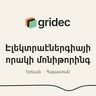
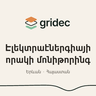
Логотип «open frame» владельца (gridec_open_frame_vector_pack.zip) вместо «solid v3» (2026-11-17, владелец: «поменяй логотип на сайте гридек на этот»)
SVG из пакета без правок: верх #E08A4B, средняя — контур (#17241F на светлом, #F6F1E9 на тёмном), низ #86C2A0; слово #17241F / #F6F1E9.
Рамка 492×143: шапка 35→36 px, подвал 41→42 px — ширина логотипа прежняя (~124 / ~145 px). Шапка телефона 375: зазор знак→меню 8.7 px, без горизонтальной прокрутки.
Заменены: brand/gridec-logo-light(-s).svg, -dark.svg, gridec-mark-light/dark.svg, почтовые PNG (из пакета); favicon.svg и фавиконки (icons_mark.py); og/logo-mark.png и og-карточки (make_cards.py).

Changed region(s): [[0.25, 0.1562, 0.75, 0.3125]]

diff --git a/powertech-v2-build/shell.html b/powertech-v2-build/shell.html
@@ -205,7 +205,7 @@ header a,header button,header nav,header .navr{pointer-events:auto;}
    плоскостями шире (3.4 вместо 1.5) и задняя плоскость на шаг темнее, иначе при
    32px зазоры пропадают и знак сливается в пятно. На тёмном — dark-версия.
    Сдвиг −7px: оптическое выравнивание по средней плоскости (задняя висит в поле). */
-.brand .wm{display:block;flex:0 0 auto;height:35px;width:auto;margin:0 0 0 -6px;}/* 2026-11-17 логотип «solid v3» владельца: рамка 684×192 без полей; 35 px = тот же размер рисунка, что был при 37 */   /* 32 → 37: владелец «на 15 %» (2026-09-13); сдвиг оптики −7 → −8 пропорционально */
+.brand .wm{display:block;flex:0 0 auto;height:36px;width:auto;margin:0 0 0 -6px;}/* 2026-11-17 логотип «open frame» владельца: рамка 492×143; 36 px = та же ширина логотипа (~124 px), что у «solid v3» при 35 */   /* 32 → 37: владелец «на 15 %» (2026-09-13); сдвиг оптики −7 → −8 пропорционально */
 .brand .lg-d{display:none;}
 header.on-dark .brand .lg-l{display:none;}
 header.on-dark .brand .lg-d{display:block;}
@@ -1595,7 +1595,7 @@ footer .fgrid{display:grid;grid-template-columns:minmax(220px,1fr) minmax(0,1.15
 /* Владелец (2026-09-14): знак и имя юрлица под ним спорили — два имени одного
    веса подряд. Имя юрлица ушло в строку реквизитов к номеру: знак называет
    компанию один раз, юрлицо читают вместе с номером. */
-footer .fbrand .flg{display:block;height:41px;width:auto;margin:0 0 22px -7px;}
+footer .fbrand .flg{display:block;height:42px;width:auto;margin:0 0 22px -7px;}
 /* Учётный номер компании. Он ярче описания над ним, потому что это
    проверяемый факт, а не подпись: по этому номеру компанию находят в
    государственном реестре — ради чего он в футере и стоит. Обозначение
@@ -2375,7 +2375,7 @@ html[data-nav="5"] #hdr .btn{white-space:nowrap;}
 <div id="wipe"><canvas aria-hidden="true"></canvas></div>
 <div class="rake" aria-hidden="true"></div>
 <header id="hdr" data-tone="paper"><div class="hin">
-  <a class="brand" href="%%BRAND_HREF%%" aria-label="Gridec"><img class="wm lg-l" src="./brand/gridec-logo-light-s.svg" alt="Gridec" width="684" height="192" decoding="async"><img class="wm lg-d" src="./brand/gridec-logo-dark.svg" alt="" width="684" height="192" decoding="async" aria-hidden="true"></a>
+  <a class="brand" href="%%BRAND_HREF%%" aria-label="Gridec"><img class="wm lg-l" src="./brand/gridec-logo-light-s.svg" alt="Gridec" width="492" height="143" decoding="async"><img class="wm lg-d" src="./brand/gridec-logo-dark.svg" alt="" width="492" height="143" decoding="async" aria-hidden="true"></a>
   <!-- %%HOME%% пуст на главной и равен её адресу на остальных страницах: оттуда
        ссылки на разделы ведут на главную, а не в пустоту (2026-11-11). -->
   <nav><a class="lk" href="%%HOME%%#applications">%%NAV_INDUSTRIES%%</a><a class="lk" href="%%HOME%%#services">%%NAV_SERVICES%%</a><a class="lk" href="%%HOME%%#company">%%NAV_COMPANY%%</a><a class="lk" href="%%PARTNERS_HREF%%"%%PARTNERS_CUR%%>%%NAV_PARTNERS%%</a></nav>
@@ -2578,7 +2578,7 @@ html[data-nav="5"] #hdr .btn{white-space:nowrap;}
 <footer>
   <div class="wrap fgrid">
     <div class="fbrand rv">
-      <img class="flg" src="./brand/gridec-logo-dark.svg" alt="Gridec" width="684" height="192" loading="lazy" decoding="async">
+      <img class="flg" src="./brand/gridec-logo-dark.svg" alt="Gridec" width="492" height="143" loading="lazy" decoding="async">
       <p>%%HERO_EYEBROW%%</p>
       <p class="freg">%%CO_LEGAL%%<span class="fsep">·</span>%%CO_TIN_LB%% <b>%%CO_TIN%%</b></p>
     </div>

diff --git a/site/hy/partners/index.html b/site/hy/partners/index.html
@@ -106,7 +106,7 @@ header a,header button,header nav,header .navr{pointer-events:auto;}
   width:100%;padding:0 clamp(14px,2.1vw,30px);}
 .brand{display:flex;align-items:center;gap:10px;
   --acc:var(--c-brand);flex:0 0 auto;transition:color .5s var(--e);}
-.brand .wm{display:block;flex:0 0 auto;height:35px;width:auto;margin:0 0 0 -6px;}   
+.brand .wm{display:block;flex:0 0 auto;height:36px;width:auto;margin:0 0 0 -6px;}   
 .brand .lg-d{display:none;}
 header.on-dark .brand .lg-l{display:none;}
 header.on-dark .brand .lg-d{display:block;}
@@ -823,7 +823,7 @@ footer,.footrev{--foot-h:530px;}
   box-shadow:inset 0 1px 0 var(--line-d);}
 footer .fgrid{display:grid;grid-template-columns:minmax(220px,1fr) minmax(0,1.15fr) minmax(0,.85fr);
   gap:clamp(28px,4vw,var(--s8));align-items:start;}
-footer .fbrand .flg{display:block;height:41px;width:auto;margin:0 0 22px -7px;}
+footer .fbrand .flg{display:block;height:42px;width:auto;margin:0 0 22px -7px;}
 footer .fbrand .freg{margin-top:14px;text-transform:none;letter-spacing:.04em;white-space:nowrap;
   max-width:none;color:var(--c-paper-a72);}
 footer .fbrand .freg .fsep{opacity:.5;margin:0 10px;}
@@ -1303,7 +1303,7 @@ html[data-nav="5"] #hdr .btn{white-space:nowrap;}
 <div id="wipe"><canvas aria-hidden="true"></canvas></div>
 <div class="rake" aria-hidden="true"></div>
 <header id="hdr" data-tone="paper"><div class="hin">
-  <a class="brand" href="/hy/" aria-label="Gridec"><img class="wm lg-l" src="/brand/gridec-logo-light-s.svg" alt="Gridec" width="684" height="192" decoding="async"><img class="wm lg-d" src="/brand/gridec-logo-dark.svg" alt="" width="684" height="192" decoding="async" aria-hidden="true"></a>
+  <a class="brand" href="/hy/" aria-label="Gridec"><img class="wm lg-l" src="/brand/gridec-logo-light-s.svg" alt="Gridec" width="492" height="143" decoding="async"><img class="wm lg-d" src="/brand/gridec-logo-dark.svg" alt="" width="492" height="143" decoding="async" aria-hidden="true"></a>
   
   <nav><a class="lk" href="/hy/#applications">Ոլորտներ</a><a class="lk" href="/hy/#services">Ծառայություններ</a><a class="lk" href="/hy/#company">Ընկերություն</a><a class="lk" href="/hy/partners/" aria-current="page">Գործընկերների համար</a></nav>
   <div class="navr">
@@ -1371,7 +1371,7 @@ html[data-nav="5"] #hdr .btn{white-space:nowrap;}
 <footer>
   <div class="wrap fgrid">
     <div class="fbrand rv">
-      <img class="flg" src="/brand/gridec-logo-dark.svg" alt="Gridec" width="684" height="192" loading="lazy" decoding="async">
+      <img class="flg" src="/brand/gridec-logo-dark.svg" alt="Gridec" width="492" height="143" loading="lazy" decoding="async">
       <p>Էլեկտրաէներգիայի որակի մոնիթորինգ</p>
       <p class="freg">Գրիդեկ ՍՊԸ<span class="fsep">·</span>ՀՎՀՀ <b>08331059</b></p>
     </div>

diff --git a/site/hy/index.html b/site/hy/index.html
@@ -106,7 +106,7 @@ header a,header button,header nav,header .navr{pointer-events:auto;}
   width:100%;padding:0 clamp(14px,2.1vw,30px);}
 .brand{display:flex;align-items:center;gap:10px;
   --acc:var(--c-brand);flex:0 0 auto;transition:color .5s var(--e);}
-.brand .wm{display:block;flex:0 0 auto;height:35px;width:auto;margin:0 0 0 -6px;}   
+.brand .wm{display:block;flex:0 0 auto;height:36px;width:auto;margin:0 0 0 -6px;}   
 .brand .lg-d{display:none;}
 header.on-dark .brand .lg-l{display:none;}
 header.on-dark .brand .lg-d{display:block;}
@@ -823,7 +823,7 @@ footer,.footrev{--foot-h:530px;}
   box-shadow:inset 0 1px 0 var(--line-d);}
 footer .fgrid{display:grid;grid-template-columns:minmax(220px,1fr) minmax(0,1.15fr) minmax(0,.85fr);
   gap:clamp(28px,4vw,var(--s8));align-items:start;}
-footer .fbrand .flg{display:block;height:41px;width:auto;margin:0 0 22px -7px;}
+footer .fbrand .flg{display:block;height:42px;width:auto;margin:0 0 22px -7px;}
 footer .fbrand .freg{margin-top:14px;text-transform:none;letter-spacing:.04em;white-space:nowrap;
   max-width:none;color:var(--c-paper-a72);}
 footer .fbrand .freg .fsep{opacity:.5;margin:0 10px;}
@@ -1303,7 +1303,7 @@ html[data-nav="5"] #hdr .btn{white-space:nowrap;}
 <div id="wipe"><canvas aria-hidden="true"></canvas></div>
 <div class="rake" aria-hidden="true"></div>
 <header id="hdr" data-tone="paper"><div class="hin">
-  <a class="brand" href="#top" aria-label="Gridec"><img class="wm lg-l" src="/brand/gridec-logo-light-s.svg" alt="Gridec" width="684" height="192" decoding="async"><img class="wm lg-d" src="/brand/gridec-logo-dark.svg" alt="" width="684" height="192" decoding="async" aria-hidden="true"></a>
+  <a class="brand" href="#top" aria-label="Gridec"><img class="wm lg-l" src="/brand/gridec-logo-light-s.svg" alt="Gridec" width="492" height="143" decoding="async"><img class="wm lg-d" src="/brand/gridec-logo-dark.svg" alt="" width="492" height="143" decoding="async" aria-hidden="true"></a>
   
   <nav><a class="lk" href="#applications">Ոլորտներ</a><a class="lk" href="#services">Ծառայություններ</a><a class="lk" href="#company">Ընկերություն</a><a class="lk" href="/hy/partners/">Գործընկերների համար</a></nav>
   <div class="navr">
@@ -1466,7 +1466,7 @@ html[data-nav="5"] #hdr .btn{white-space:nowrap;}
 <footer>
   <div class="wrap fgrid">
     <div class="fbrand rv">
-      <img class="flg" src="/brand/gridec-logo-dark.svg" alt="Gridec" width="684" height="192" loading="lazy" decoding="async">
+      <img class="flg" src="/brand/gridec-logo-dark.svg" alt="Gridec" width="492" height="143" loading="lazy" decoding="async">
       <p>Էլեկտրաէներգիայի որակի մոնիթորինգ</p>
       <p class="freg">Գրիդեկ ՍՊԸ<span class="fsep">·</span>ՀՎՀՀ <b>08331059</b></p>
     </div>

diff --git a/site/partners/index.html b/site/partners/index.html
@@ -102,7 +102,7 @@ header a,header button,header nav,header .navr{pointer-events:auto;}
   width:100%;padding:0 clamp(14px,2.1vw,30px);}
 .brand{display:flex;align-items:center;gap:10px;
   --acc:var(--c-brand);flex:0 0 auto;transition:color .5s var(--e);}
-.brand .wm{display:block;flex:0 0 auto;height:35px;width:auto;margin:0 0 0 -6px;}   
+.brand .wm{display:block;flex:0 0 auto;height:36px;width:auto;margin:0 0 0 -6px;}   
 .brand .lg-d{display:none;}
 header.on-dark .brand .lg-l{display:none;}
 header.on-dark .brand .lg-d{display:block;}
@@ -819,7 +819,7 @@ footer,.footrev{--foot-h:530px;}
   box-shadow:inset 0 1px 0 var(--line-d);}
 footer .fgrid{display:grid;grid-template-columns:minmax(220px,1fr) minmax(0,1.15fr) minmax(0,.85fr);
   gap:clamp(28px,4vw,var(--s8));align-items:start;}
-footer .fbrand .flg{display:block;height:41px;width:auto;margin:0 0 22px -7px;}
+footer .fbrand .flg{display:block;height:42px;width:auto;margin:0 0 22px -7px;}
 footer .fbrand .freg{margin-top:14px;text-transform:none;letter-spacing:.04em;white-space:nowrap;
   max-width:none;color:var(--c-paper-a72);}
 footer .fbrand .freg .fsep{opacity:.5;margin:0 10px;}
@@ -1303,7 +1303,7 @@ html[data-nav="5"] #hdr .btn{white-space:nowrap;}
 <div id="wipe"><canvas aria-hidden="true"></canvas></div>
 <div class="rake" aria-hidden="true"></div>
 <header id="hdr" data-tone="paper"><div class="hin">
-  <a class="brand" href="/" aria-label="Gridec"><img class="wm lg-l" src="/brand/gridec-logo-light-s.svg" alt="Gridec" width="684" height="192" decoding="async"><img class="wm lg-d" src="/brand/gridec-logo-dark.svg" alt="" width="684" height="192" decoding="async" aria-hidden="true"></a>
+  <a class="brand" href="/" aria-label="Gridec"><img class="wm lg-l" src="/brand/gridec-logo-light-s.svg" alt="Gridec" width="492" height="143" decoding="async"><img class="wm lg-d" src="/brand/gridec-logo-dark.svg" alt="" width="492" height="143" decoding="async" aria-hidden="true"></a>
   
   <nav><a class="lk" href="/#applications">Industries</a><a class="lk" href="/#services">Services</a><a class="lk" href="/#company">Company</a><a class="lk" href="/partners/" aria-current="page">For Partners</a></nav>
   <div class="navr">
@@ -1371,7 +1371,7 @@ html[data-nav="5"] #hdr .btn{white-space:nowrap;}
 <footer>
   <div class="wrap fgrid">
     <div class="fbrand rv">
-      <img class="flg" src="/brand/gridec-logo-dark.svg" alt="Gridec" width="684" height="192" loading="lazy" decoding="async">
+      <img class="flg" src="/brand/gridec-logo-dark.svg" alt="Gridec" width="492" height="143" loading="lazy" decoding="async">
       <p>POWER QUALITY MONITORING</p>
       <p class="freg">Gridec LLC<span class="fsep">·</span>TIN <b>08331059</b></p>
     </div>

diff --git a/site/index.html b/site/index.html
@@ -102,7 +102,7 @@ header a,header button,header nav,header .navr{pointer-events:auto;}
   width:100%;padding:0 clamp(14px,2.1vw,30px);}
 .brand{display:flex;align-items:center;gap:10px;
   --acc:var(--c-brand);flex:0 0 auto;transition:color .5s var(--e);}
-.brand .wm{display:block;flex:0 0 auto;height:35px;width:auto;margin:0 0 0 -6px;}   
+.brand .wm{display:block;flex:0 0 auto;height:36px;width:auto;margin:0 0 0 -6px;}   
 .brand .lg-d{display:none;}
 header.on-dark .brand .lg-l{display:none;}
 header.on-dark .brand .lg-d{display:block;}
@@ -819,7 +819,7 @@ footer,.footrev{--foot-h:530px;}
   box-shadow:inset 0 1px 0 var(--line-d);}
 footer .fgrid{display:grid;grid-template-columns:minmax(220px,1fr) minmax(0,1.15fr) minmax(0,.85fr);
   gap:clamp(28px,4vw,var(--s8));align-items:start;}
-footer .fbrand .flg{display:block;height:41px;width:auto;margin:0 0 22px -7px;}
+footer .fbrand .flg{display:block;height:42px;width:auto;margin:0 0 22px -7px;}
 footer .fbrand .freg{margin-top:14px;text-transform:none;letter-spacing:.04em;white-space:nowrap;
   max-width:none;color:var(--c-paper-a72);}
 footer .fbrand .freg .fsep{opacity:.5;margin:0 10px;}
@@ -1303,7 +1303,7 @@ html[data-nav="5"] #hdr .btn{white-space:nowrap;}
 <div id="wipe"><canvas aria-hidden="true"></canvas></div>
 <div class="rake" aria-hidden="true"></div>
 <header id="hdr" data-tone="paper"><div class="hin">
-  <a class="brand" href="#top" aria-label="Gridec"><img class="wm lg-l" src="/brand/gridec-logo-light-s.svg" alt="Gridec" width="684" height="192" decoding="async"><img class="wm lg-d" src="/brand/gridec-logo-dark.svg" alt="" width="684" height="192" decoding="async" aria-hidden="true"></a>
+  <a class="brand" href="#top" aria-label="Gridec"><img class="wm lg-l" src="/brand/gridec-logo-light-s.svg" alt="Gridec" width="492" height="143" decoding="async"><img class="wm lg-d" src="/brand/gridec-logo-dark.svg" alt="" width="492" height="143" decoding="async" aria-hidden="true"></a>
   
   <nav><a class="lk" href="#applications">Industries</a><a class="lk" href="#services">Services</a><a class="lk" href="#company">Company</a><a class="lk" href="/partners/">For Partners</a></nav>
   <div class="navr">
@@ -1466,7 +1466,7 @@ html[data-nav="5"] #hdr .btn{white-space:nowrap;}
 <footer>
   <div class="wrap fgrid">
     <div class="fbrand rv">
-      <img class="flg" src="/brand/gridec-logo-dark.svg" alt="Gridec" width="684" height="192" loading="lazy" decoding="async">
+      <img class="flg" src="/brand/gridec-logo-dark.svg" alt="Gridec" width="492" height="143" loading="lazy" decoding="async">
       <p>POWER QUALITY MONITORING</p>
       <p class="freg">Gridec LLC<span class="fsep">·</span>TIN <b>08331059</b></p>
     </div>
